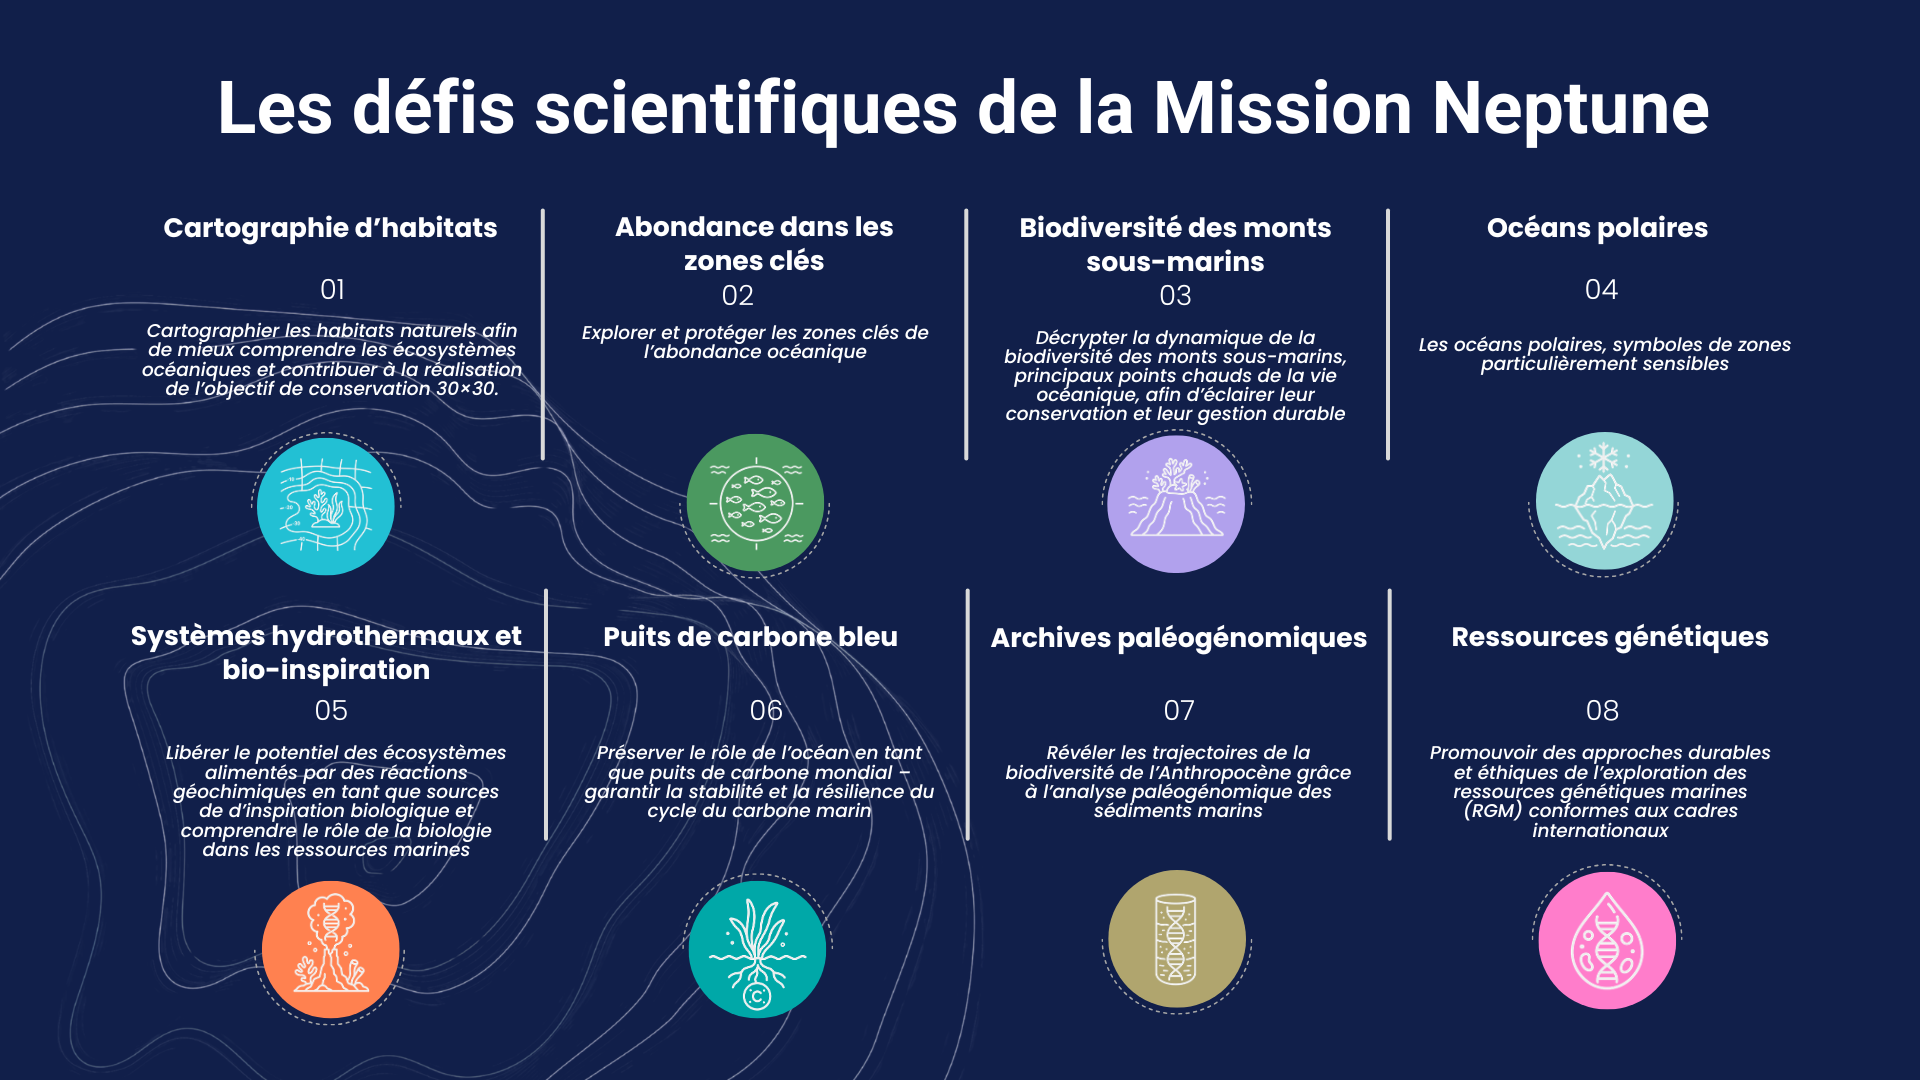
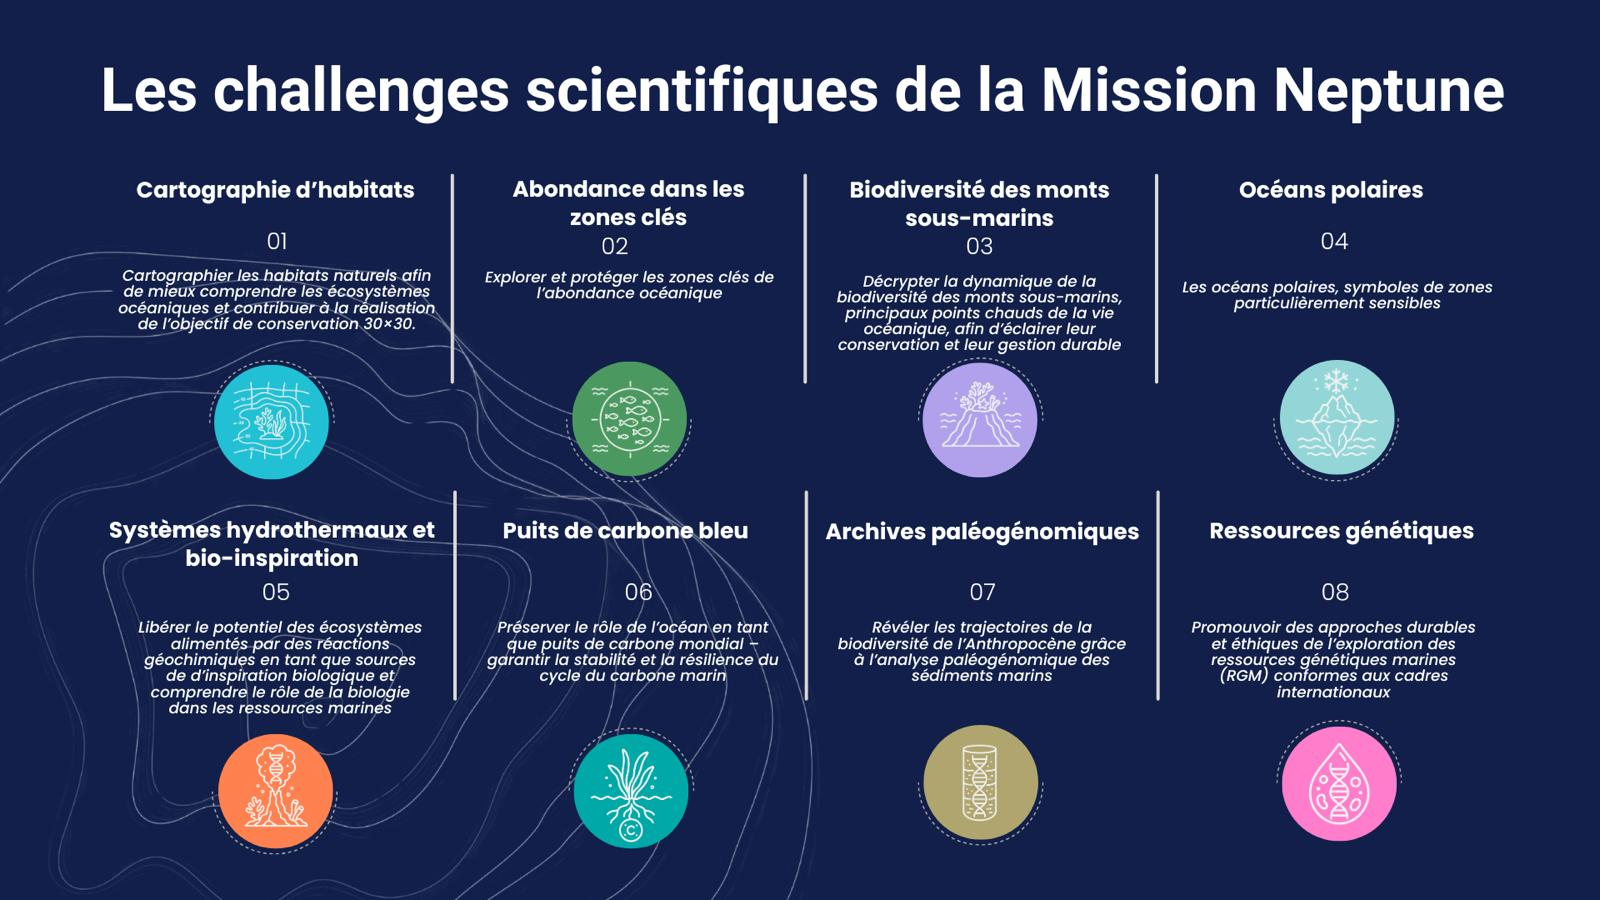
fix(graphics): update French scientific challenges infographic v2
Replace the v1.3.6 FR infographic with the updated version from Gilles
(2026-07-24). New image is 1600x900 (~1.06 Mo).

- graphics/mission-neptune-scientific-challenges-fr.png
- CHANGELOG entry for v1.3.7

diff --git a/CHANGELOG.md b/CHANGELOG.md
@@ -2,6 +2,12 @@
 
 Tous les changements notables de ce repo sont documentés ici. Format inspiré de [Keep a Changelog](https://keepachangelog.com/), versioning [SemVer](https://semver.org/).
 
+## [v1.3.7] — 2026-07-24
+
+### Modifications
+
+- `graphics/mission-neptune-scientific-challenges-fr.png` — version mise à jour de l'infographie « Défis scientifiques de Mission Neptune », 1600×900 (~1.06 Mo). Remplace la version v1.3.6 fournie hier. Source : image fournie par Gilles le 2026-07-24.
+
 ## [v1.3.6] — 2026-07-23
 
 ### Ajouts